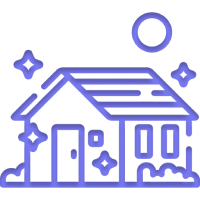
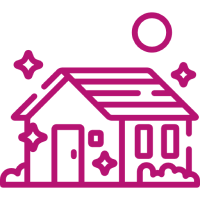
change

diff --git a/simulateur-aide.html b/simulateur-aide.html
@@ -1,6 +1,6 @@
 ---
 layout: custom
-titre: Simulateur d'aide
+titre: Simulateurs d'aides
 title: Simulateur des aides dont vous avez droit | Finay
 permalink: /simulateur-aide/
 ---
@@ -29,15 +29,15 @@ permalink: /simulateur-aide/
       </div>
 
       <div>
-        <p>Ma demande concerne bien des travaux d'isolation par l'extérieur ?</p>
+        <p>Ma demande concerne des travaux portant sur :</p>
         <div class="radios">
           <label class="type-travaux radio">
             <input type="radio" name="choice-travaux" value="yes">
-            <span>Oui</span>
+            <span>Isolation extérieure</span>
           </label>
           <label class="type-travaux radio">
             <input type="radio" name="choice-travaux" value="no">
-            <span>Non</span>
+            <span>Chauffage</span>
           </label>
         </div>
       </div>
@@ -64,24 +64,9 @@ permalink: /simulateur-aide/
           </label>
         </div>
         <div>
-          <p>Revenus annuels</p>
+          <p>Montant total des revenus fiscaux du foyer (en €)</p>
           <label id="revenus">
-            <input type="number" name="revenus" placeholder="revenus annuels">
-          </label>
-        </div>
-      </div>
-
-      <div class="long">
-        <div>
-          <p>Ancienneté du logement</p>
-          <label for="" id="anciennete">
-            <input type="number" name="anciennete" placeholder="nombre d'années">
-          </label>
-        </div>
-        <div>
-          <p>Durée annuelle d'occupation du logement</p>
-          <label id="duree">
-            <input type="number" min="0" max="12" name="duree" placeholder="nombre de mois">
+            <input type="number" name="revenus" placeholder="ex: 26563">
           </label>
         </div>
       </div>
@@ -91,12 +76,6 @@ permalink: /simulateur-aide/
           <p>Code postal</p>
           <label id="zipcode">
             <input id="zip" type="text" name="zip" pattern="[0-9]{5}" maxlength="5" minlength="5">
-          </label>
-        </div>
-        <div>
-          <p>Surface en m<sup>2</sup> des façades extérieures</p>
-          <label for="" id="surface">
-            <input type="number" name="surface" placeholder="surface en m2">
           </label>
         </div>
       </div>
@@ -109,7 +88,7 @@ permalink: /simulateur-aide/
     <div class="faq">
       <details>
         <summary>Où trouver mes revenus annuels ?</summary>
-          <p>Something small enough to escape casual notice.</p>
+          <p>Le montant total de vos revenus fiscaux correspond à la somme de tous les revenus fiscaux de votre foyer. Ces revenus se trouvent sur vos derniers avis d'imposition.</p>
       </details>
       <details>
         <summary>Qui sont les personnes qui composent mon ménage ?</summary>
@@ -158,7 +137,7 @@ le ménage (foyer fiscal)</td>
             <td class="bleu">Revenus annuels pour être éligible à MaPrimeRénov' Bleu</td>
             <td class="jaune">Revenus annuels pour être éligible à MaPrimeRénov' Jaune</td>
             <td class="violet">Revenus annuels pour être éligible à MaPrimeRénov' Violet</td>
-            <td class="rose">Revenus annuels pour être éiligible à MaPrimeRénov' Rose</td>
+            <td class="rose">Revenus annuels pour être éligible à MaPrimeRénov' Rose</td>
         </tr>
         <tr>
           <td>1</td>
@@ -221,7 +200,7 @@ le ménage (foyer fiscal)</td>
             <td class="bleu">Revenus annuels pour être éligible à MaPrimeRénov' Bleu</td>
             <td class="jaune">Revenus annuels pour être éligible à MaPrimeRénov' Jaune</td>
             <td class="violet">Revenus annuels pour être éligible à MaPrimeRénov' Violet</td>
-            <td class="rose">Revenus annuels pour être éiligible à MaPrimeRénov' Rose</td>
+            <td class="rose">Revenus annuels pour être éligible à MaPrimeRénov' Rose</td>
         </tr>
         <tr>
           <td>1</td>

diff --git a/assets/js/simulateur.js b/assets/js/simulateur.js
@@ -74,7 +74,7 @@ const isolationExt = {
   "jaune" : 60,
   "violet" : 40,
   "rose" : 15,
-  "plafon" : 150
+  "plafond" : 150
 }
 const paris = ["75","77","78","91","92","93","94","95"]
 
@@ -111,10 +111,10 @@ document.getElementById("simulateur-prime-renov").addEventListener('submit', (ev
     //let entries = Object.keys(bareme[people]);
     //let result = entries.filter(key => revenus <= key)[0];
     //let color = bareme[people][result] || "rose";
-    let aides = isolationExt[color] * surface;
+    let aides = isolationExt[color];
     console.log(localite);
     console.log(color);
-    if (travaux === 'no' || residence === 'no' || anciennete < 15 || occupation < 8) {
+    if (travaux === 'no' || residence === 'no') {
       document.getElementById("results").querySelector("#color").innerHTML = "";
       document.getElementById("results").querySelector("#aides").innerText = "";
       document.getElementById("results").querySelector("#aides").innerText = "Vous n'êtes pas éligible à MaPrimeRénov'";
@@ -124,7 +124,7 @@ document.getElementById("simulateur-prime-renov").addEventListener('submit', (ev
       pictoPrime.src = `${window.location.origin}/assets/images/icones/pictos-entreprise/prime-${color}.png`;
       color = color.replace(/^\w/, (c) => c.toUpperCase());
       document.getElementById("results").querySelector("#color").innerHTML = `Vous êtes éligible à <span class=${color}>MaPrimeRénov ${color}</span>`;
-      document.getElementById("results").querySelector("#aides").innerText = `Vous avez droit à ${aides} € d'aides avec MaPrimeRénov'`;
+      document.getElementById("results").querySelector("#aides").innerHTML = `Vous avez droit à ${aides}€/m<sup>2</sup> d'aides avec MaPrimeRénov'`;
     }
 
     document.querySelector('#scroll-to').scrollIntoView({

diff --git a/_sass/colors.scss b/_sass/colors.scss
@@ -4,6 +4,7 @@ $lightblue: #39C6E4;
 $black: #000000;
 $yellow: #E1C16E;
 $orange: #F1B254;
-$purple: #7879F1;
+//$purple: #7879F1;
+$purple: #B61372;
 $rose: #F178B6;
 
